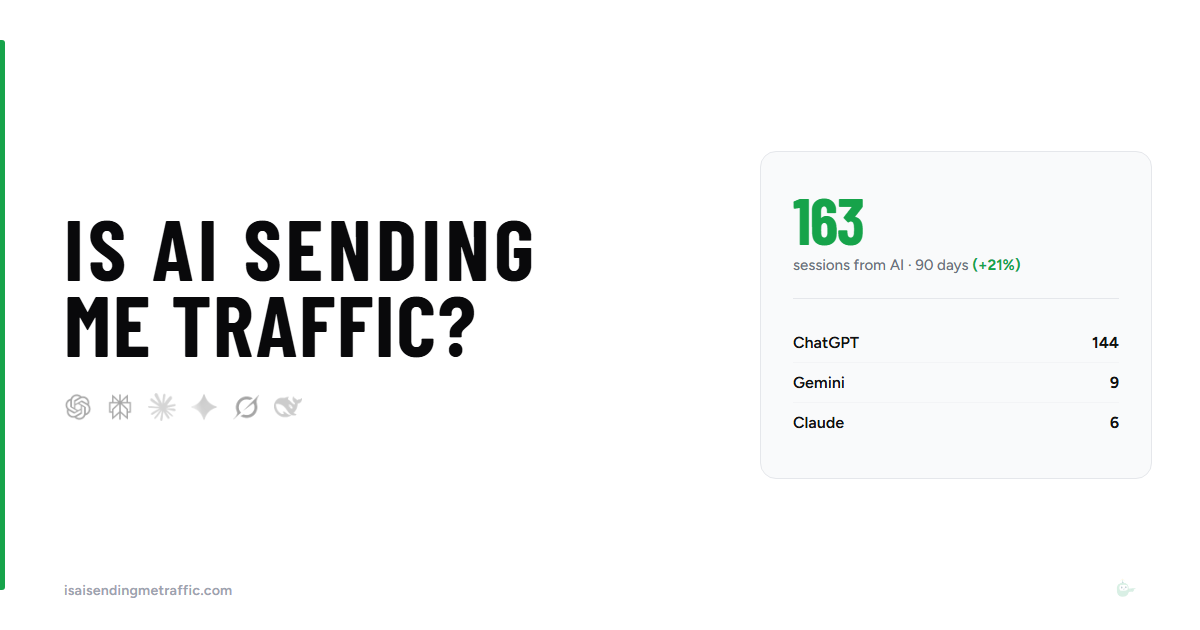
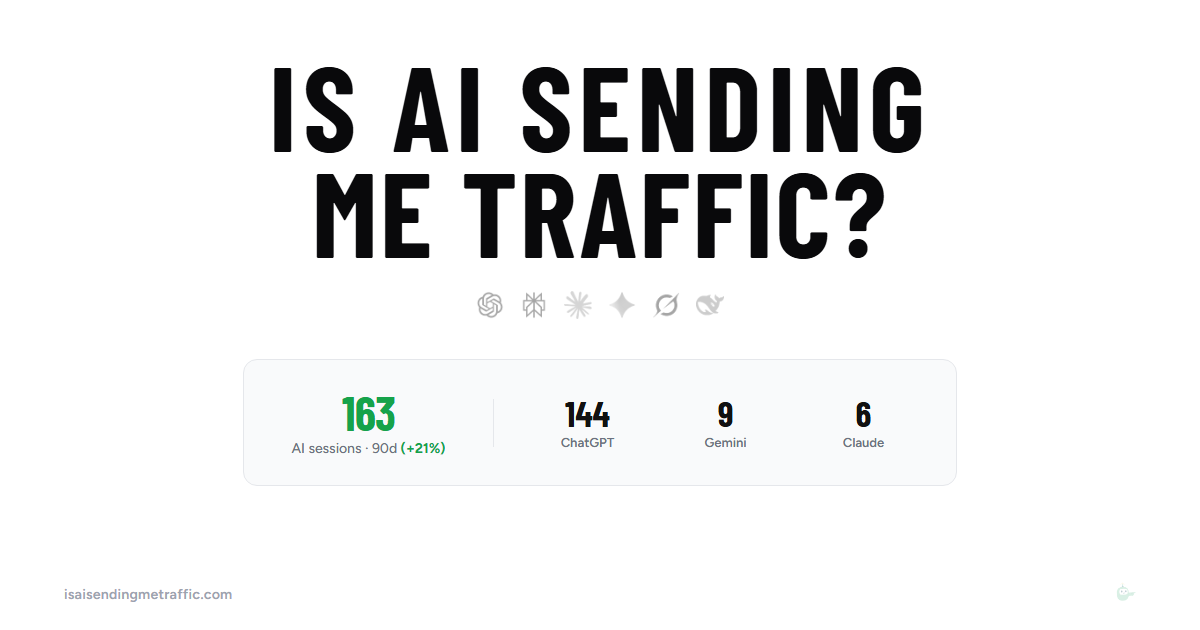
center OG image title like homepage

diff --git a/og-image.html b/og-image.html
@@ -20,29 +20,15 @@
 
   .layout {
     display: flex;
-    height: 100%;
-  }
-
-  /* Left side — title + logos */
-  .left {
-    flex: 1;
-    display: flex;
     flex-direction: column;
-    justify-content: center;
-    padding: 56px 48px 56px 64px;
-    position: relative;
+    align-items: center;
+    height: 100%;
+    padding: 52px 64px 0;
   }
 
-  /* Green accent bar */
-  .left::before {
-    content: '';
-    position: absolute;
-    left: 0;
-    top: 40px;
-    bottom: 40px;
-    width: 5px;
-    background: #16a34a;
-    border-radius: 0 3px 3px 0;
+  /* Title area — centered */
+  .title-area {
+    text-align: center;
   }
 
   h1 {
@@ -51,7 +37,7 @@
     text-transform: uppercase;
     line-height: 0.88;
     letter-spacing: -0.02em;
-    font-size: 86px;
+    font-size: 120px;
     color: #09090b;
   }
 
@@ -61,8 +47,9 @@
   .logos {
     display: flex;
     align-items: center;
-    gap: 14px;
-    margin-top: 32px;
+    justify-content: center;
+    gap: 16px;
+    margin-top: 28px;
   }
 
   .logos img {
@@ -74,71 +61,72 @@
     opacity: 0.35;
   }
 
-  /* Right side — data card */
-  .right {
-    width: 440px;
-    flex-shrink: 0;
+  /* Data row — horizontal stats */
+  .data-row {
     display: flex;
-    flex-direction: column;
-    justify-content: center;
-    padding: 56px 48px 56px 0;
-  }
-
-  .card {
+    align-items: center;
+    gap: 48px;
+    margin-top: 40px;
+    padding: 28px 48px;
     background: #f9fafb;
     border: 1px solid #e5e7eb;
-    border-radius: 16px;
-    padding: 36px 32px;
+    border-radius: 14px;
   }
 
-  .big-number {
+  .stat {
+    display: flex;
+    flex-direction: column;
+    align-items: center;
+    min-width: 120px;
+  }
+
+  .stat-number {
     font-family: 'Barlow Condensed', sans-serif;
     font-weight: 700;
-    font-size: 64px;
+    font-size: 48px;
     line-height: 1;
     color: #16a34a;
     letter-spacing: -0.02em;
   }
 
-  .big-label {
-    font-size: 15px;
+  .stat-label {
+    font-size: 14px;
     color: #6b7280;
     margin-top: 4px;
     font-weight: 500;
   }
 
-  .big-label .growth {
+  .stat-label .growth {
     color: #16a34a;
     font-weight: 700;
   }
 
-  .divider {
-    height: 1px;
+  .stat-divider {
+    width: 1px;
+    height: 48px;
     background: #e5e7eb;
-    margin: 24px 0;
   }
 
-  .source-row {
+  .source-stat {
     display: flex;
+    flex-direction: column;
     align-items: center;
-    justify-content: space-between;
-    padding: 10px 0;
+    min-width: 90px;
   }
 
-  .source-row + .source-row {
-    border-top: 1px solid #f3f4f6;
-  }
-
-  .source-name {
-    font-size: 16px;
-    font-weight: 600;
-    color: #111;
-  }
-
-  .source-count {
-    font-size: 16px;
+  .source-stat .source-count {
+    font-family: 'Barlow Condensed', sans-serif;
     font-weight: 700;
+    font-size: 36px;
+    line-height: 1;
     color: #111;
+  }
+
+  .source-stat .source-name {
+    font-size: 13px;
+    font-weight: 600;
+    color: #6b7280;
+    margin-top: 4px;
   }
 
   /* Bottom bar */
@@ -150,7 +138,7 @@
     display: flex;
     align-items: center;
     justify-content: space-between;
-    padding: 0 64px 28px;
+    padding: 0 64px 24px;
   }
 
   .url {
@@ -169,7 +157,7 @@
 </head>
 <body>
   <div class="layout">
-    <div class="left">
+    <div class="title-area">
       <h1>
         <span class="line1">IS AI SENDING</span>
         <span class="line2">ME TRAFFIC?</span>
@@ -183,26 +171,23 @@
         <img src="public/llm-logos/deepseek.png" alt="DeepSeek">
       </div>
     </div>
-    <div class="right">
-      <div class="card">
-        <div class="big-number">163</div>
-        <div class="big-label">
-          sessions from AI · 90 days
-          <span class="growth">(+21%)</span>
-        </div>
-        <div class="divider"></div>
-        <div class="source-row">
-          <span class="source-name">ChatGPT</span>
-          <span class="source-count">144</span>
-        </div>
-        <div class="source-row">
-          <span class="source-name">Gemini</span>
-          <span class="source-count">9</span>
-        </div>
-        <div class="source-row">
-          <span class="source-name">Claude</span>
-          <span class="source-count">6</span>
-        </div>
+    <div class="data-row">
+      <div class="stat">
+        <span class="stat-number">163</span>
+        <span class="stat-label">AI sessions · 90d <span class="growth">(+21%)</span></span>
+      </div>
+      <div class="stat-divider"></div>
+      <div class="source-stat">
+        <span class="source-count">144</span>
+        <span class="source-name">ChatGPT</span>
+      </div>
+      <div class="source-stat">
+        <span class="source-count">9</span>
+        <span class="source-name">Gemini</span>
+      </div>
+      <div class="source-stat">
+        <span class="source-count">6</span>
+        <span class="source-name">Claude</span>
       </div>
     </div>
   </div>
